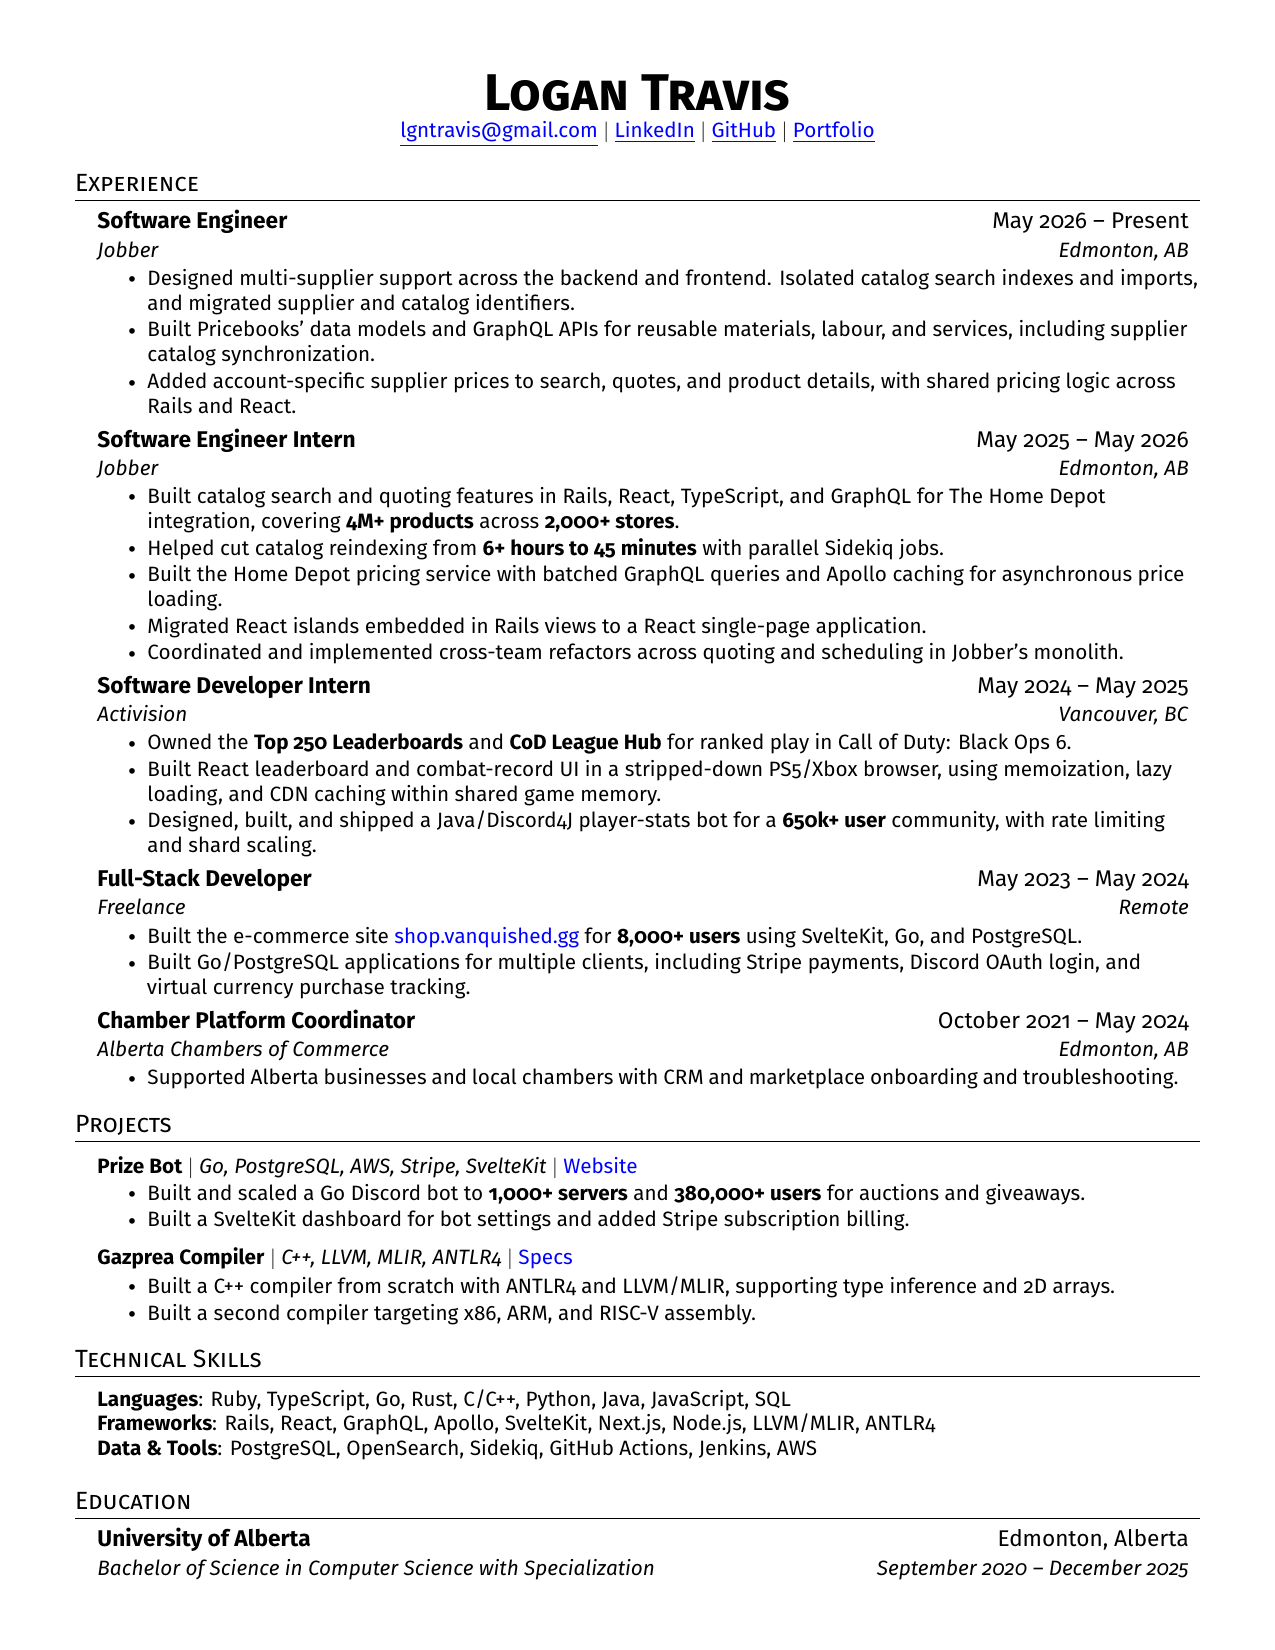
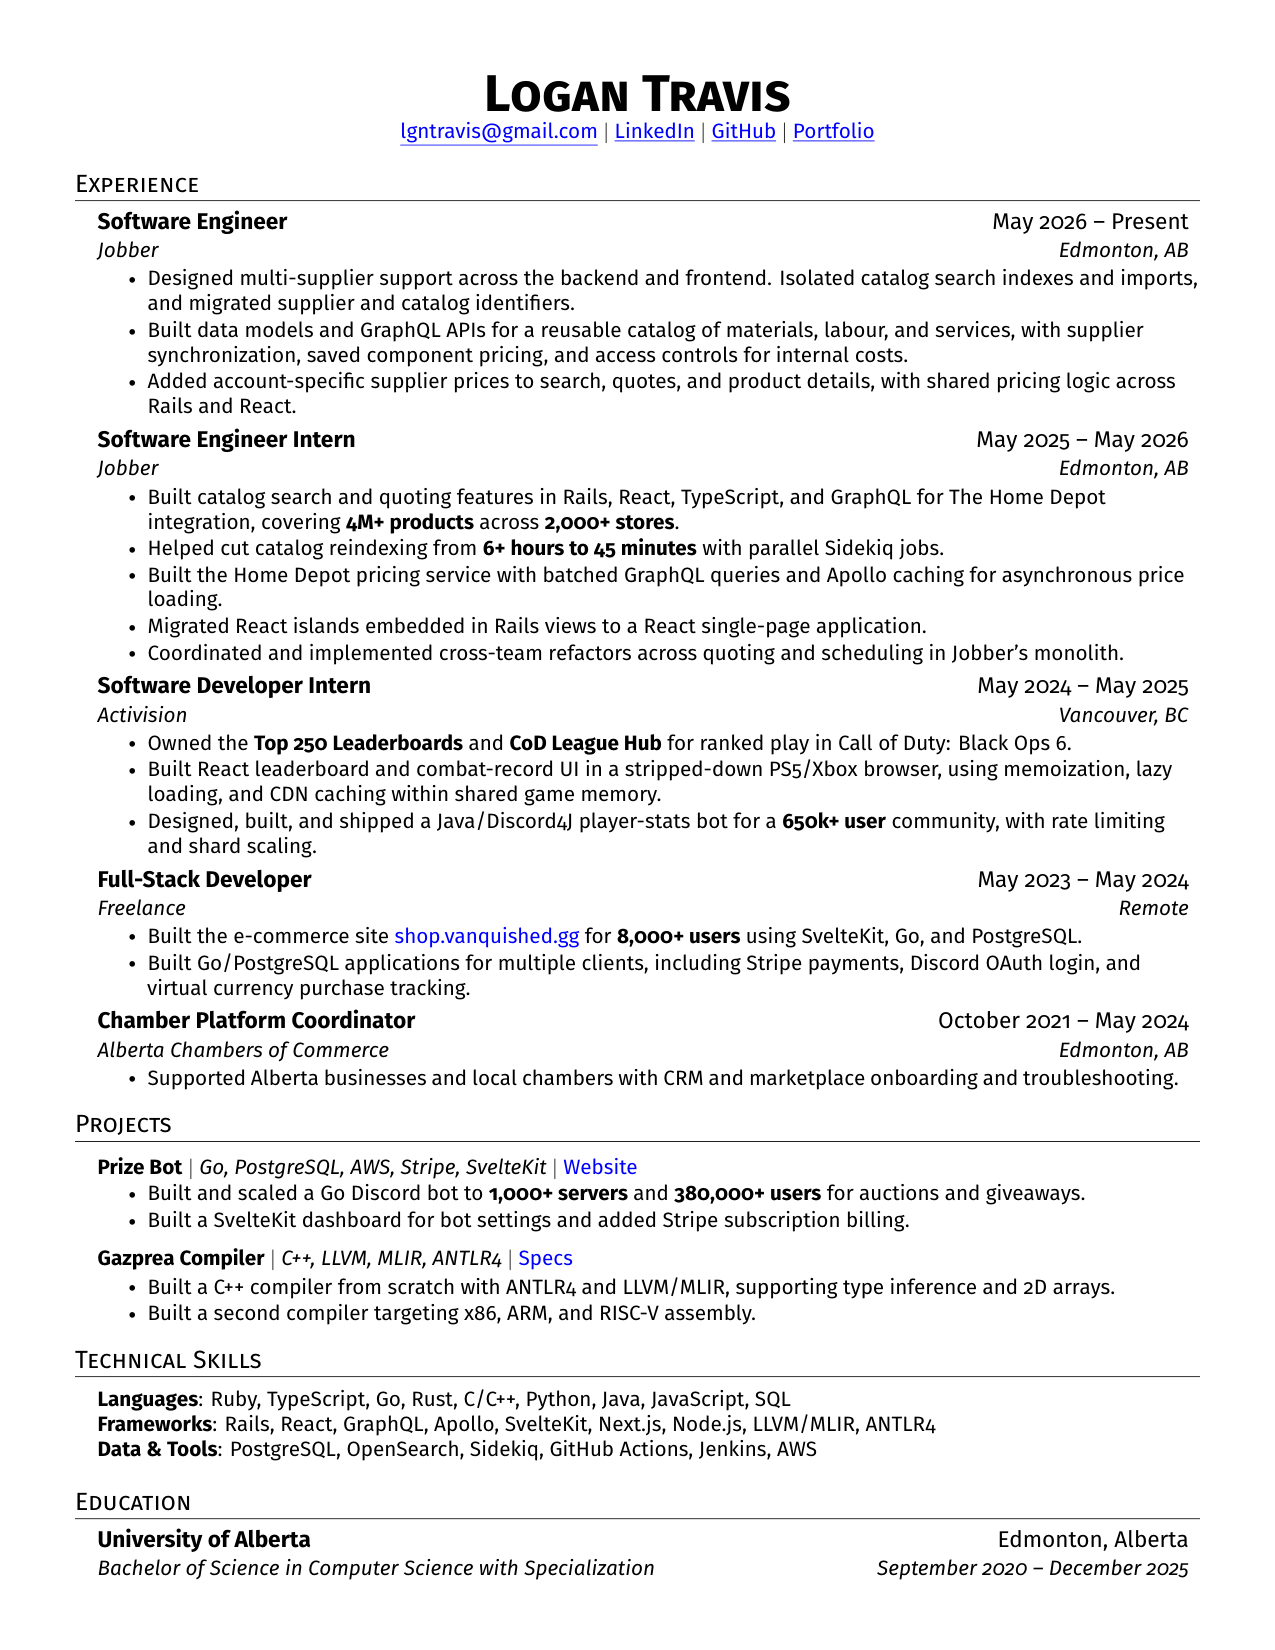
Describe reusable catalog work without internal product name

diff --git a/2-page/resume.tex b/2-page/resume.tex
@@ -151,7 +151,7 @@
 {Jobber}{Edmonton, AB}
 \resumeItemListStart
 \resumeItem{Designed multi-supplier support across Supply's backend and frontend, covering catalogs, account connections, and pricing. Isolated catalog search indexes and imports, with staged migrations for supplier and catalog identifiers.}
-\resumeItem{Built Pricebooks' data models and GraphQL APIs for reusable materials, labour, and services, including supplier catalog synchronization, saved component prices, and permissions for internal costs.}
+\resumeItem{Built data models and GraphQL APIs for a reusable catalog of materials, labour, and services, with supplier synchronization, saved component pricing, and access controls for internal costs.}
 \resumeItem{Added account-specific supplier prices to catalog search, quote line items, and product details. Unified price selection and display across Rails and React.}
 \resumeItemListEnd
 

diff --git a/resume.tex b/resume.tex
@@ -151,7 +151,7 @@
 {Jobber}{Edmonton, AB}
 \resumeItemListStart
 \resumeItem{Designed multi-supplier support across the backend and frontend. Isolated catalog search indexes and imports, and migrated supplier and catalog identifiers.}
-\resumeItem{Built Pricebooks' data models and GraphQL APIs for reusable materials, labour, and services, including supplier catalog synchronization.}
+\resumeItem{Built data models and GraphQL APIs for a reusable catalog of materials, labour, and services, with supplier synchronization, saved component pricing, and access controls for internal costs.}
 \resumeItem{Added account-specific supplier prices to search, quotes, and product details, with shared pricing logic across Rails and React.}
 \resumeItemListEnd
 
